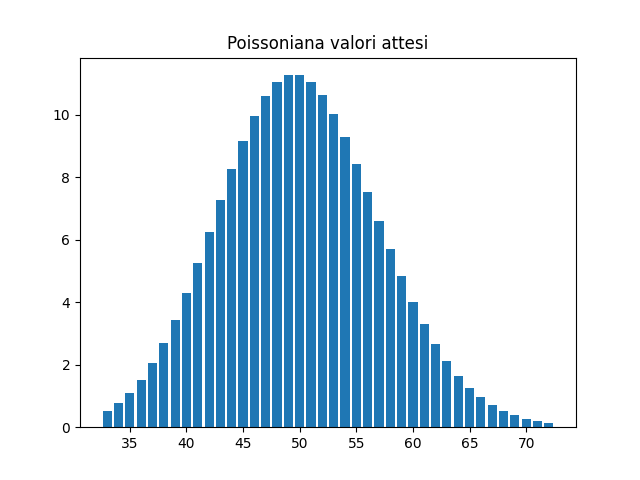
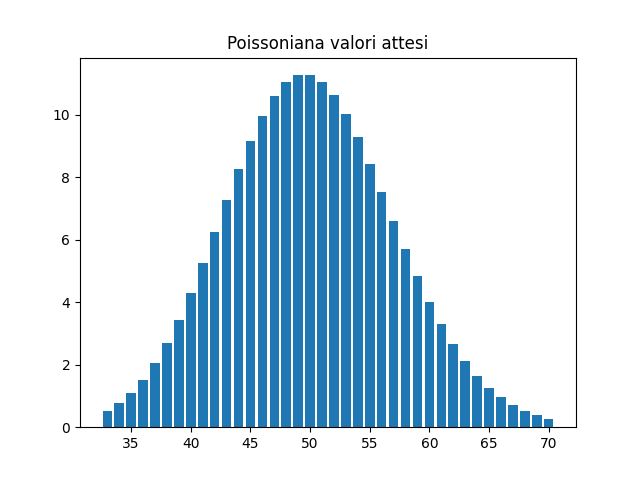
Aggiustato le poissoniane a confronto

Changed region(s): [[0.1875, 0.1562, 0.875, 0.9375]]

diff --git a/main.py b/main.py
@@ -34,8 +34,10 @@ def poisson(lista):
     plt.title("Poissoniana valori ottenuti")
     plt.savefig("Poissoniana ottenuta.png")
     plt.show()
+    partenza = lista.min()
+    arrivo = lista.max()
 
-    return a, b, c
+    return a, b, partenza, arrivo
 
 
 def poisson_attesa(nprov, nbinor, orarr):
@@ -53,12 +55,12 @@ def poisson_attesa(nprov, nbinor, orarr):
     plt.savefig("Poissoniana attesa.png")
     plt.show()
 
+    return pmf
 
-def poissonconfronto(a, b, newlen):
-    plt.hist([a, b], bins=np.arange(0, newlen + 1), label=["Osservata", "Attesa"])
-    plt.title("Distribuzioni attese e ottenute a confronto")
-    plt.savefig("Distribuzioni attese e ottenute a confronto.png")
-    plt.legend(prop={'size': 10})
+
+def poissonconfronto(a, pmf, range1, range2):
+    plt.bar(range1, a)
+    plt.bar(range2, pmf, alpha=0.4)
     plt.show()
 
 
@@ -68,19 +70,30 @@ minimo = 0
 massimo = 10
 Dx = massimo/nbins
 
+print("Il numero di eventi é: ", events)
+print("Il numero di bins é: ", nbins)
+print("Gli eventi generati vanno da ", minimo, " a ", massimo)
+print("Il passo è quindi dato da massimo/numero di bin cioè: ", Dx)
+print("")
+print("")
+
 slist = genera_numeri(minimo, massimo, events)
 
 aarray, barray, carray = distribuzione_uniforme(slist, minimo, massimo, Dx)
 print("La media e la varianza della uniforme")
 media_varianza(slist)
+print("")
 
-array1, bins1, carray1 = poisson(aarray)
+array1, bins1, partenza1, arrivo1 = poisson(aarray)
 print("La media e la varianza della poisson ottenuta")
 media_varianza(aarray)
+print("")
 
-poisson_attesa(events, nbins, bins1)
+pmf1 = poisson_attesa(events, nbins, bins1)
 print("La media e la varianza della poisson attesa")
 media_varianza(bins1)
-print("array1 vale: ", bins1)
+print("")
 
-#  poissonconfronto(aarray, array2, newlen2)
+
+ranges1 = np.arange(partenza1, arrivo1, 1)
+poissonconfronto(array1, pmf1, ranges1, bins1)
